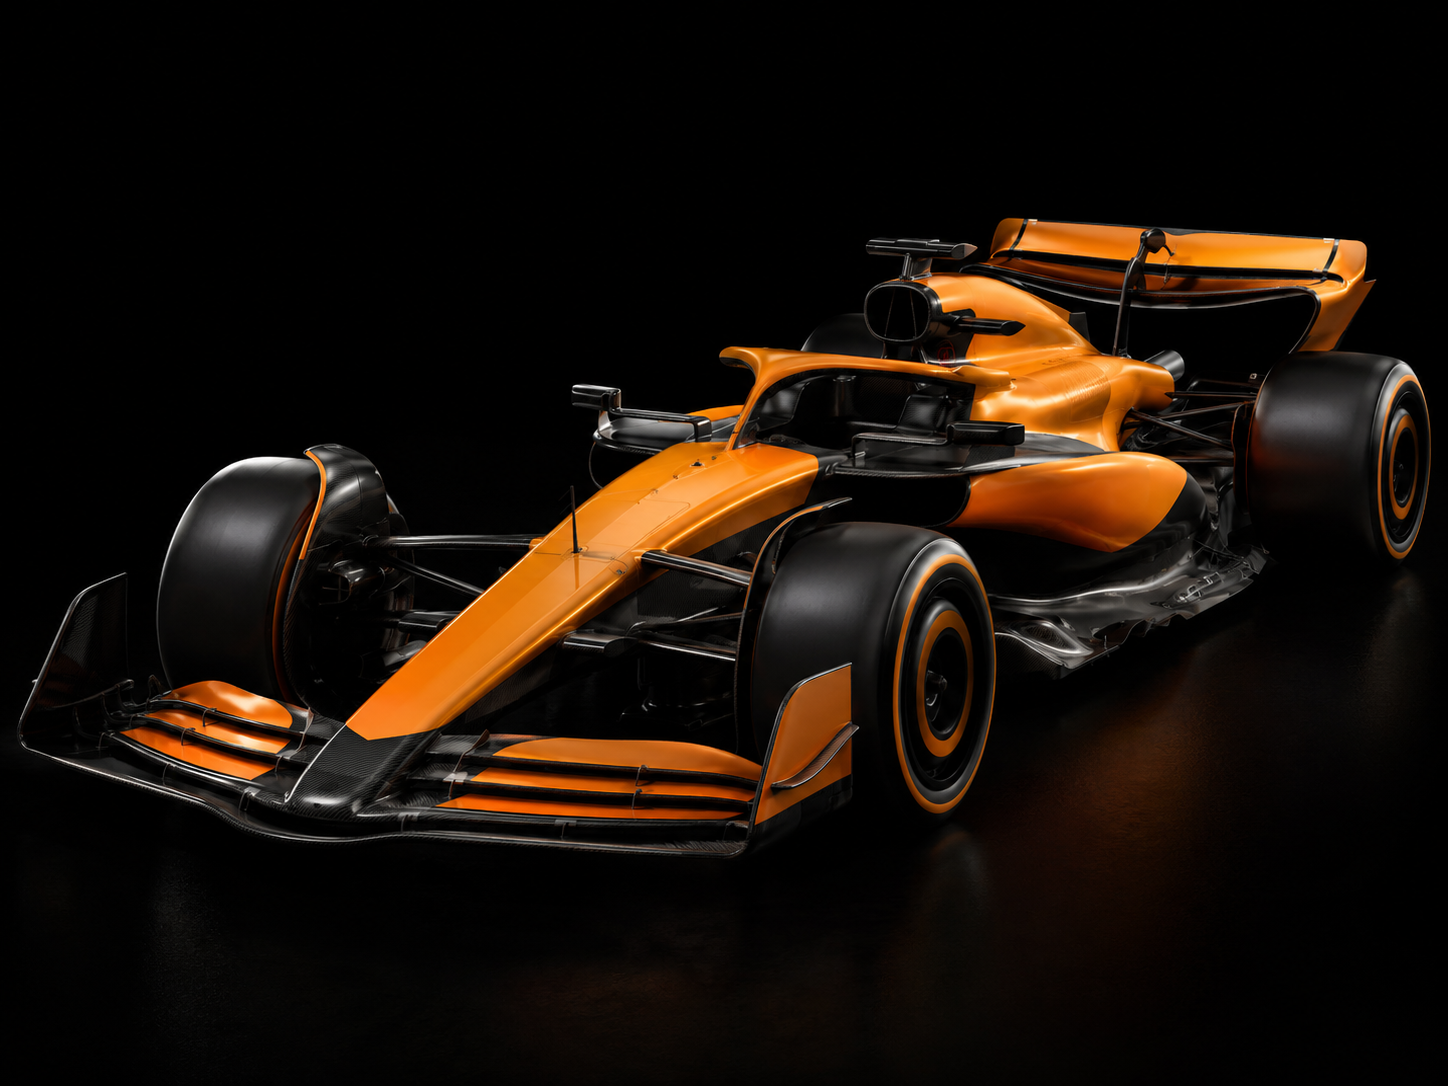
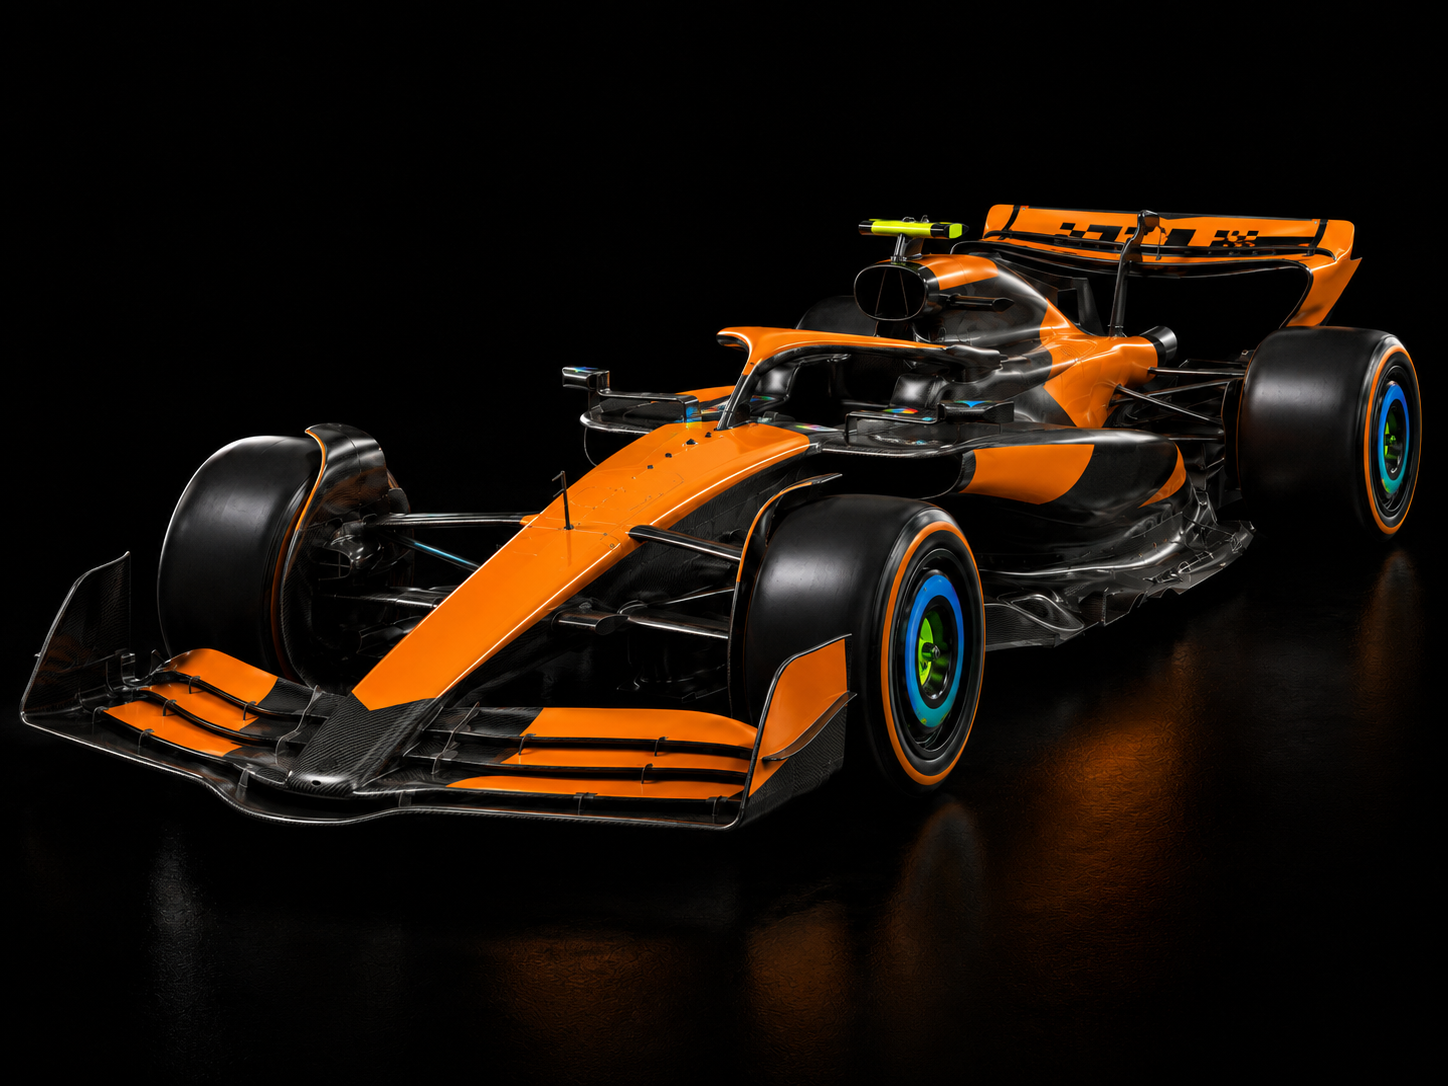
Corrige vencedores de circuito lidos da Wikipedia e atualiza foto da McLaren
O parser parseWinners tratava o lead/infobox do artigo como linha de tabela, lendo o ano de 'first race' do infobox e o primeiro piloto citado no lead — fazendo Monaco 1950 aparecer como Ayrton Senna em vez de Juan Manuel Fangio. Agora o ano so e aceito quando vem de uma celula de cabecalho de tabela (!). Atualiza tambem public/images/McLaren.png.

diff --git a/src/api/wikipedia.js b/src/api/wikipedia.js
@@ -173,7 +173,10 @@ function parseWinners(text) {
   const out = {}
   for (const row of text.split('\n|-')) {
     if (/background:#(fcc|ff9|fc9)/.test(row)) continue // non-championship / pre-war
-    const ym = row.match(/\{\{F1\|(\d{4})\}\}/) || row.match(/\[\[(\d{4})\b/)
+    // Year must come from a table header cell (`!`), otherwise the article
+    // lead/infobox (which links the "first race" year and mentions record
+    // winners by name) is mis-read as a winner row — e.g. Monaco 1950 → Senna.
+    const ym = row.match(/!\s*\{\{F1\|(\d{4})\}\}/) || row.match(/!\s*\[\[(\d{4})\b/)
     const fm = row.match(/\{\{flagicon\|([A-Za-z]{2,3})/)
     if (!ym || !fm) continue
     const year = parseInt(ym[1], 10)